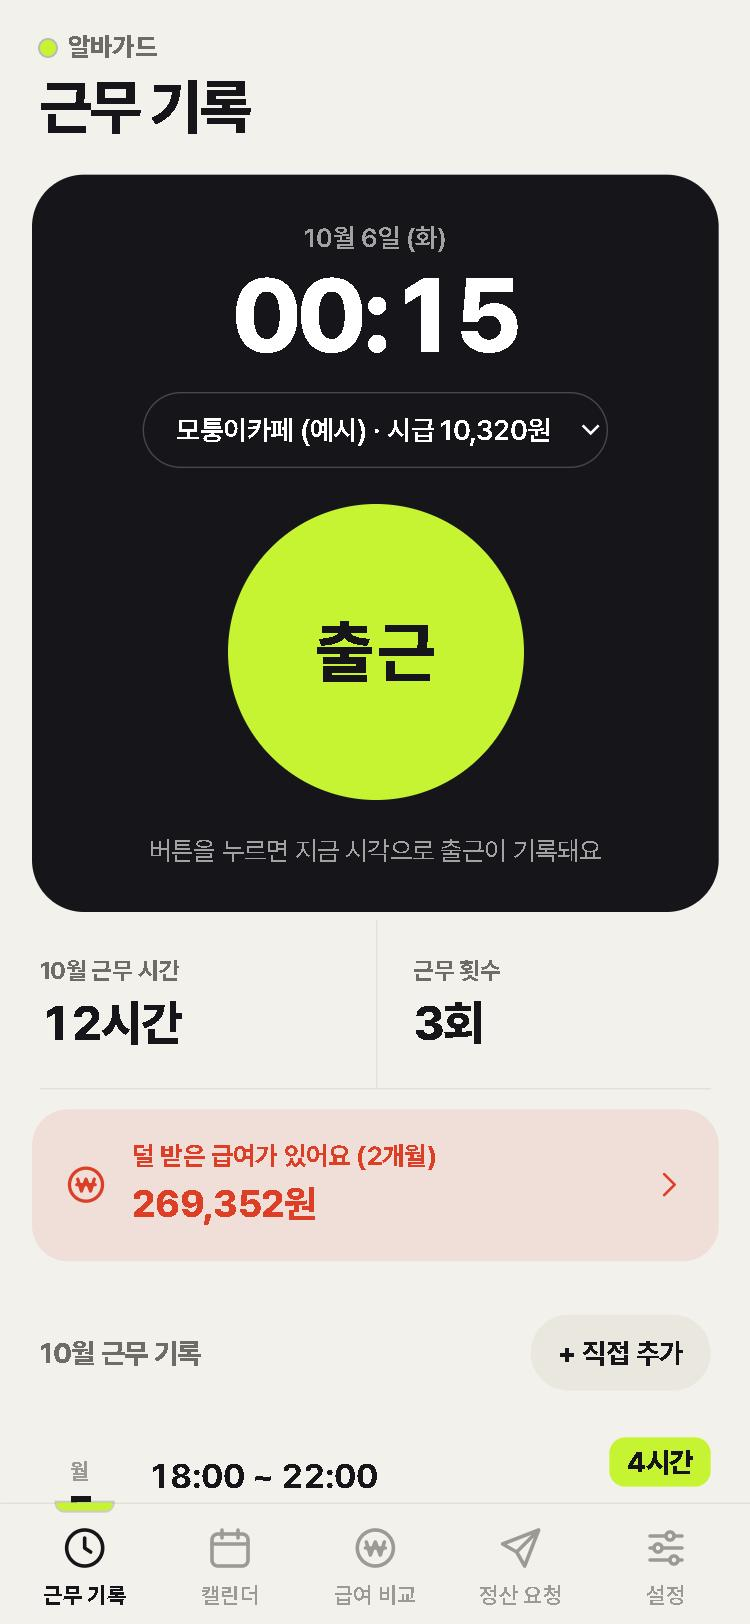
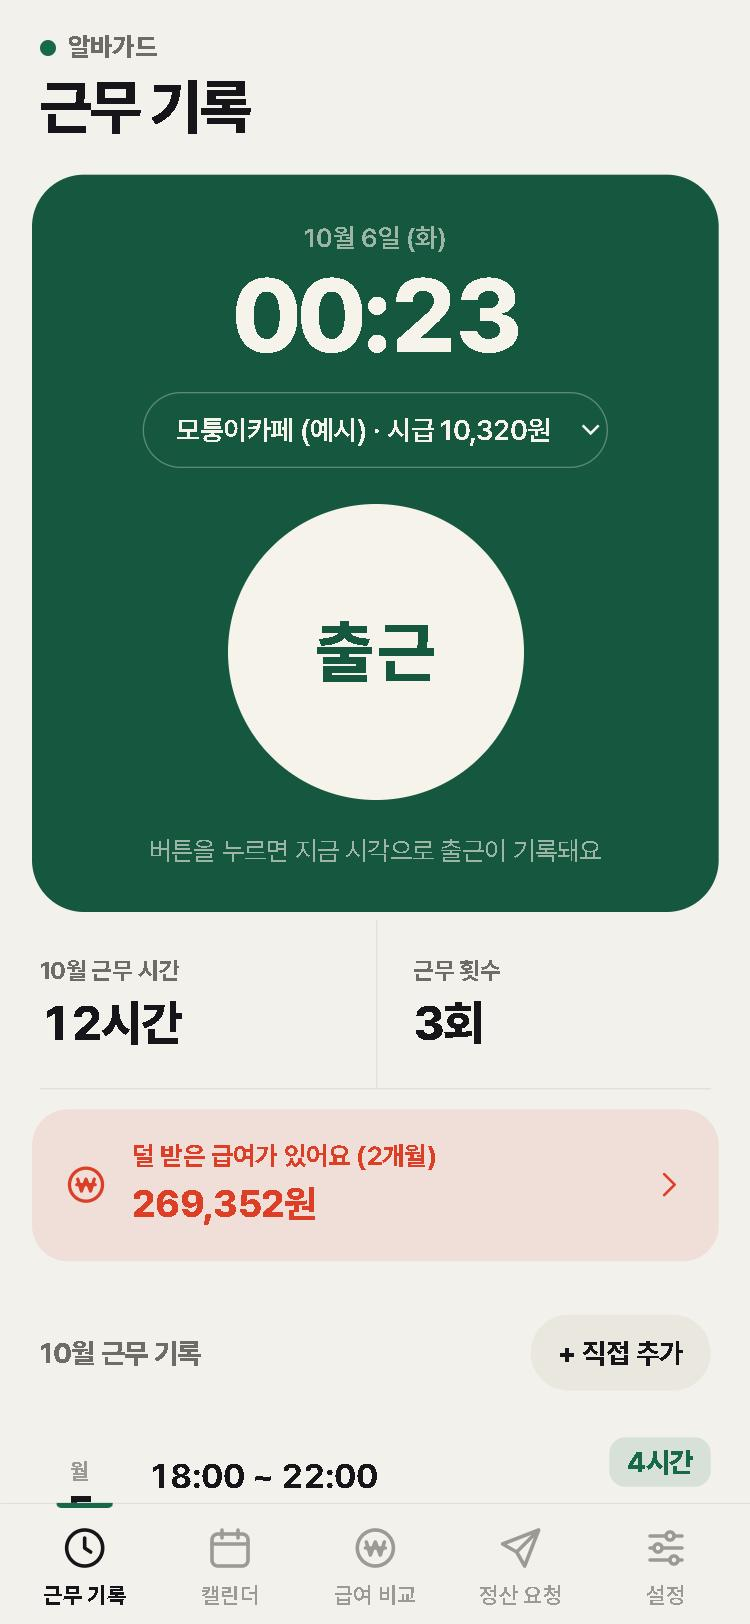
포인트 색을 짙은 초록으로 변경
- 형광 라임 대신 짙은 초록(받을 돈·지켜 준다는 뜻), 출근 판과 주요 버튼에 적용
- 근무 중에는 흰 판 + 초록 테두리
- 앱 아이콘, README 캡처, 문서의 디자인 설명 갱신

diff --git a/src/styles.css b/src/styles.css
@@ -1,6 +1,6 @@
 /*
   알바가드 디자인: 종이 위의 근무 기록표.
-  - 따뜻한 종이색 바탕 + 먹색 글자, 포인트는 형광 라임 한 가지
+  - 따뜻한 종이색 바탕 + 먹색 글자, 포인트는 짙은 초록 한 가지 (받을 돈·지켜 준다는 뜻)
   - 그라데이션·그림자 없이 평평하게. 목록은 카드 대신 줄과 구분선
   - 밝은 화면 / 어두운 화면 모두 아래 변수만 바꿔서 만든다
 */
@@ -13,19 +13,22 @@
   --muted: #6d6c67;
   --faint: #9b9a94;
   --line: #e2dfd6;
-  --primary: #16161a; /* 주요 버튼 바탕 */
+  --primary: #17694a; /* 주요 버튼 바탕 */
   --on-primary: #ffffff;
-  --accent: #c6f432; /* 형광 라임 */
-  --on-accent: #16161a;
-  --hero: #16161a;
-  --on-hero: #ffffff;
+  --accent: #17694a; /* 짙은 초록 */
+  --on-accent: #ffffff;
+  --accent-soft: rgba(23, 105, 74, 0.12);
+  --hero: #15573f; /* 출근 판 */
+  --on-hero: #f6f3ea;
+  --hero-btn: #f6f3ea;
+  --on-hero-btn: #15573f;
   --chip: #eae7df;
   --red: #dc3f26;
   --red-soft: rgba(220, 63, 38, 0.1);
   --orange: #c2610a;
   --orange-soft: rgba(224, 122, 20, 0.14);
-  --green: #12804a;
-  --green-soft: rgba(18, 128, 74, 0.12);
+  --green: #17694a;
+  --green-soft: rgba(23, 105, 74, 0.12);
   --purple: #6b45c9;
   --purple-soft: rgba(107, 69, 201, 0.12);
   --blue: #2c5fd6;
@@ -45,17 +48,22 @@
     --muted: #a09f98;
     --faint: #73726c;
     --line: #2d2d32;
-    --primary: #c6f432;
-    --on-primary: #16161a;
-    --hero: #1c1c20;
-    --on-hero: #f1f0ea;
+    --primary: #45c08a;
+    --on-primary: #0c1f17;
+    --accent: #45c08a;
+    --on-accent: #0c1f17;
+    --accent-soft: rgba(69, 192, 138, 0.16);
+    --hero: #143d2e;
+    --on-hero: #eaf5ef;
+    --hero-btn: #45c08a;
+    --on-hero-btn: #0c1f17;
     --chip: #2b2b30;
     --red: #ff7a63;
     --red-soft: rgba(255, 122, 99, 0.14);
     --orange: #f0a04b;
     --orange-soft: rgba(240, 160, 75, 0.14);
-    --green: #4fd08a;
-    --green-soft: rgba(79, 208, 138, 0.13);
+    --green: #45c08a;
+    --green-soft: rgba(69, 192, 138, 0.14);
     --purple: #a98bf5;
     --purple-soft: rgba(169, 139, 245, 0.15);
     --blue: #7ea6ff;
@@ -73,17 +81,22 @@
   --muted: #a09f98;
   --faint: #73726c;
   --line: #2d2d32;
-  --primary: #c6f432;
-  --on-primary: #16161a;
-  --hero: #1c1c20;
-  --on-hero: #f1f0ea;
+  --primary: #45c08a;
+  --on-primary: #0c1f17;
+  --accent: #45c08a;
+  --on-accent: #0c1f17;
+  --accent-soft: rgba(69, 192, 138, 0.16);
+  --hero: #143d2e;
+  --on-hero: #eaf5ef;
+  --hero-btn: #45c08a;
+  --on-hero-btn: #0c1f17;
   --chip: #2b2b30;
   --red: #ff7a63;
   --red-soft: rgba(255, 122, 99, 0.14);
   --orange: #f0a04b;
   --orange-soft: rgba(240, 160, 75, 0.14);
-  --green: #4fd08a;
-  --green-soft: rgba(79, 208, 138, 0.13);
+  --green: #45c08a;
+  --green-soft: rgba(69, 192, 138, 0.14);
   --purple: #a98bf5;
   --purple-soft: rgba(169, 139, 245, 0.15);
   --blue: #7ea6ff;
@@ -168,7 +181,6 @@ a.btn {
   height: 8px;
   border-radius: 50%;
   background: var(--accent);
-  box-shadow: 0 0 0 1px rgba(22, 22, 26, 0.25);
 }
 
 .app-header h1 {
@@ -304,7 +316,7 @@ a.btn {
   opacity: 0.7;
 }
 
-/* 출퇴근: 먹색 판 위에 라임 버튼. 근무 중에는 판 전체가 라임으로 바뀐다 */
+/* 출퇴근: 초록 판 위에 종이색 버튼. 근무 중에는 흰 판 + 초록 테두리로 바뀐다 */
 .hero {
   margin-bottom: 4px;
   padding: 22px 20px 20px;
@@ -315,8 +327,13 @@ a.btn {
 }
 
 .hero.working {
-  background: var(--accent);
-  color: var(--on-accent);
+  background: var(--surface);
+  color: var(--text);
+  box-shadow: inset 0 0 0 2px var(--accent);
+}
+
+.hero.working .hero-status {
+  color: var(--accent);
 }
 
 .hero-date {
@@ -338,7 +355,7 @@ a.btn {
   min-height: 38px;
   margin-top: 10px;
   padding: 0 12px;
-  border: 1px solid rgba(255, 255, 255, 0.22);
+  border: 1px solid rgba(255, 255, 255, 0.3);
   border-radius: 999px;
   background: transparent;
   color: inherit;
@@ -390,13 +407,13 @@ a.btn {
 }
 
 .clock-btn.in {
-  background: var(--accent);
-  color: var(--on-accent);
+  background: var(--hero-btn);
+  color: var(--on-hero-btn);
 }
 
 .clock-btn.out {
-  background: #16161a;
-  color: #ffffff;
+  background: var(--text);
+  color: var(--bg);
 }
 
 .clock-btn:active {
@@ -555,8 +572,8 @@ a.btn {
 .record-duration {
   padding: 2px 9px;
   border-radius: 8px;
-  background: var(--accent);
-  color: var(--on-accent);
+  background: var(--accent-soft);
+  color: var(--accent);
   font-size: 14px;
   font-weight: 800;
   white-space: nowrap;
@@ -675,7 +692,7 @@ a.btn {
 }
 
 .input:focus {
-  border-color: var(--text);
+  border-color: var(--accent);
 }
 
 .field-help {
@@ -701,7 +718,7 @@ a.btn {
   height: 22px;
   margin-top: 1px;
   flex-shrink: 0;
-  accent-color: var(--text);
+  accent-color: var(--accent);
 }
 
 .notice {
@@ -1483,7 +1500,7 @@ a.btn {
   }
 }
 
-/* 하단 탭: 고른 탭은 글자색과 위쪽 라임 막대로 표시 */
+/* 하단 탭: 고른 탭은 글자색과 위쪽 초록 막대로 표시 */
 .tabbar {
   position: fixed;
   left: 50%;
@@ -1526,10 +1543,9 @@ a.btn {
   top: -1px;
   left: 50%;
   width: 28px;
-  height: 4px;
-  border-radius: 0 0 4px 4px;
+  height: 3px;
+  border-radius: 0 0 3px 3px;
   background: var(--accent);
-  box-shadow: 0 0 0 1px rgba(22, 22, 26, 0.18);
   transform: translateX(-50%);
 }
 

diff --git a/CLAUDE.md b/CLAUDE.md
@@ -12,11 +12,11 @@
 - 기획서의 기능 1~4와, 문서 재검토에서 나온 보완(기록 백업, 증빙 사진, 여러 달 누적 요청, 휴게시간, 시급 변경 이력, 대타·연장 표시, 합의 휴무)까지 구현. GitHub Pages에 배포됨
 - 배포 주소: https://jihooni217.github.io/albaguard/
 - 저장소: https://github.com/jihooni217/albaguard (브랜치 `main`, 올리면 자동 배포)
-- 2026.10.6 디자인 전면 개편(종이색·먹색·라임 포인트, 다크 모드). 아래 "디자인" 참고
-- **포인트 색은 아직 확정이 아니다.** 개편 직후 사용자가 "검정에 연두가 앱 취지와 어울리나?"라고 물었다. 형광 라임은 운동·패션 앱 느낌이라 "기록으로 정중하게 요청한다"는 취지와는 거리가 있다는 의견을 전했고, 대안(짙은 초록, 인주색 도장, 형광펜 노랑)을 제안한 상태. 답을 받으면 `src/styles.css` 맨 위 변수와 앱 아이콘, README 캡처를 함께 바꾼다
+- 2026.10.6 디자인 전면 개편(종이색·먹색·짙은 초록 포인트, 다크 모드). 아래 "디자인" 참고
+- 포인트 색은 짙은 초록으로 확정(2026.10.6). 처음엔 형광 라임이었으나 사용자가 "검정에 연두가 앱 취지와 어울리나?"라고 물었고, 운동·패션 앱 느낌이라 "기록으로 정중하게 요청한다"는 취지와 맞지 않아 바꿨다
 - **주로 폰에서 쓴다.** 폰 브라우저에서 "홈 화면에 추가"로 설치해 앱처럼 쓰는 방식
 - **API 키 없이 모든 기능이 돌아간다** (정산 요청 문구는 기본 문구로 생성)
-- 아직 확인하지 못한 것: 실제 폰에서의 설치·오프라인 실행·PDF 저장·백업 파일 저장·사진 찍어 첨부, Claude API로 문구 생성(키가 없어서 실행해 본 적 없음). 새 디자인에서는 근무 중 화면, 입력 창, 증빙 묶음, 그리고 캘린더·정산 요청·설정의 어두운 화면을 직접 보지 못함
+- 아직 확인하지 못한 것: 실제 폰에서의 설치·오프라인 실행·PDF 저장·백업 파일 저장·사진 찍어 첨부, Claude API로 문구 생성(키가 없어서 실행해 본 적 없음). 새 디자인에서는 입력 창, 증빙 묶음, 그리고 캘린더·급여 비교·정산 요청·설정의 어두운 화면을 직접 보지 못함
 - 문서(정의서·제안서)에 있지만 아직 없는 것: 입금 문자·급여명세서 사진에서 금액 자동 인식 (키 없이 폰 안에서 하기 어려워 보류. 발표에서는 향후 계획으로)
 - 문서와 다른 점: 정의서는 "요청 문서를 자동 생성"이라고 했는데 앱은 AI 없이 정해진 문구를 쓴다. 정의서 팀원 명단은 4명으로 적혀 있으나 실제는 3명
 
@@ -119,19 +119,19 @@
 그래서 파란 그라데이션 + 둥근 흰 카드 + 그림자 구성을 버리고 아래 방향으로 다시 만들었다. **이전 스타일로 돌아가지 말 것.**
 
 - 콘셉트: 종이 위의 근무 기록표. 따뜻한 종이색 바탕(`#f3f1ec`) + 먹색 글자(`#16161a`)
-- 포인트 색은 형광 라임(`#c6f432`) 한 가지(재검토 중, 위 "현재 상태" 참고). 출근 버튼, 근무 시간 칩, 단계 표시, 선택한 탭 막대에만 아껴 쓴다. 파란색은 쓰지 않는다
+- 포인트 색은 짙은 초록(`#17694a`, 어두운 화면에서는 `#45c08a`) 한 가지. 받을 돈·지켜 준다(가드)는 뜻이고, 앱에서 좋은 상태(주휴수당 대상, 예정대로 근무)를 초록으로, 덜 받은 금액을 빨강으로 쓰는 것과 이어진다. 주요 버튼, 출근 판, 근무 시간 칩, 단계 표시, 선택한 탭 막대에 쓴다. 형광색·파란색은 쓰지 않는다
 - 그라데이션·그림자 없음. 평평한 면과 구분선으로만 구분한다
 - 카드를 줄인다: 목록(근무 기록, 주별 주휴수당, 이번 달 요약)은 카드 대신 줄 + 구분선. 카드는 입력·요약처럼 묶음이 필요한 곳에만
 - 한 화면에 다 펼치지 않는다: 정산 요청은 1단계만 펼치고 2·3단계는 접어 둔다(`Fold`). 급여 비교의 주별 주휴수당도 접어 둔다
 - 맨 위: 작은 "● 알바가드" 상표 + 큰 화면 제목(탭 이름). 로고 타일은 없다
 - 구역 제목은 작고 흐리게(14px). 숫자(금액·시각)는 크고 굵게
-- 근무 기록 화면: 먹색 판에 현재 시각(52px)과 라임색 원형 출근 버튼. 근무 중에는 판 전체가 라임색 + 검은 퇴근 버튼
-- 주요 버튼: 밝은 화면에서는 먹색 바탕 흰 글자, 어두운 화면에서는 라임 바탕 검은 글자
-- 하단 탭: 선택한 탭은 글자색 + 위쪽 라임 막대
+- 근무 기록 화면: 짙은 초록 판에 현재 시각(52px)과 종이색 원형 출근 버튼. 근무 중에는 흰 판 + 초록 테두리 + 검은 퇴근 버튼(어두운 화면에서는 밝은 퇴근 버튼)
+- 주요 버튼: 밝은 화면에서는 짙은 초록 바탕 흰 글자, 어두운 화면에서는 밝은 초록 바탕 어두운 글자
+- 하단 탭: 선택한 탭은 글자색 + 위쪽 초록 막대
 - **다크 모드**: 폰이 다크 모드면 자동으로 어둡게. 설정 탭 "화면"에서 폰 설정대로·밝게·어둡게를 고를 수 있다(`src/lib/theme.js`, 이 폰에만 저장). 증빙 묶음 문서는 어두운 화면에서도 흰 종이로 둔다
 - 색은 전부 `src/styles.css` 맨 위 변수로 관리하고, 밝은 화면·어두운 화면 값이 따로 있다. **색을 직접 쓰지 말고 변수를 쓴다** (어두운 화면이 깨진다). 어두운 화면 값은 두 군데(폰 설정용, 수동 선택용)에 똑같이 있으니 같이 고친다
 - 앱처럼 느껴지게: 버튼 글자 선택 안 됨, 누르면 살짝 줄어듦, 화면 끝에서 통째로 당겨지지 않음, 입력 창은 아래에서 올라옴(`Modal.jsx`), 아이폰 위아래 여백 처리
-- 아이콘은 선 아이콘(`src/components/Icon.jsx`)으로 통일. 앱 아이콘(`public/icon-*.png`)은 먹색 바탕에 라임 "알바"
+- 아이콘은 선 아이콘(`src/components/Icon.jsx`)으로 통일. 앱 아이콘(`public/icon-*.png`)은 짙은 초록 바탕에 종이색 "알바"
 - 글꼴: Pretendard (인터넷에서 불러옴. 오프라인이면 폰 기본 글꼴)
 - 주소 끝의 `#탭이름`(`#home`, `#calendar`, `#pay`, `#request`, `#workplaces`)으로 그 탭이 바로 열린다. 탭을 바꾸면 주소에도 남아 새로고침해도 같은 탭이 유지된다
 - Claude Design(claude.ai/design)은 이 작업 환경에서 직접 쓸 수 없음. 거기서 만든 시안은 캡처를 받아 코드로 옮긴다

diff --git a/README.md b/README.md
@@ -14,7 +14,7 @@
 
 ## 화면 구성
 
-폰 세로 화면에 맞춘 디자인이다. 종이색 바탕에 먹색 글자, 포인트는 형광 라임 한 가지만 쓴다. 그라데이션과 그림자 없이 평평하게,
+폰 세로 화면에 맞춘 디자인이다. 종이색 바탕에 먹색 글자, 포인트는 짙은 초록 한 가지만 쓴다(받을 돈, 지켜 준다는 뜻). 그라데이션과 그림자 없이 평평하게,
 목록은 카드 대신 줄과 구분선으로 보여준다. 화면 아래 탭 5개로 이동하고, 어두운 화면(다크 모드)도 지원한다.
 
 <p>
@@ -31,13 +31,13 @@
 
 | 탭 | 화면 |
 |---|---|
-| 근무 기록 | 먹색 판 위에 현재 시각과 라임색 원형 출근 버튼, 이번 달 근무 시간, 덜 받은 급여 알림, 날짜별 기록 목록 |
+| 근무 기록 | 초록 판 위에 현재 시각과 종이색 원형 출근 버튼, 이번 달 근무 시간, 덜 받은 급여 알림, 날짜별 기록 목록 |
 | 캘린더 | 월 달력에 날짜마다 완료·연장·대타·휴무 표시, 날짜를 누르면 예정 스케줄과 실제 근무 비교 |
 | 급여 비교 | 달별 예상 급여와 항목, 받은 금액 입력과 차액, 주별 주휴수당(접어 둠), 증빙 사진 |
 | 정산 요청 | 덜 받은 금액과 근거, 1~3단계 요청 문구와 진정 안내 (1단계만 펼쳐 두고 나머지는 눌러서 펼침) |
 | 설정 | 근무지 등록·수정, 화면 밝기(폰 설정대로·밝게·어둡게), 기록 백업, 시연 도구 |
 
-근무 중에는 출근 판 전체가 라임색으로 바뀌고 검은 퇴근 버튼과 출근 시각이 보인다.
+근무 중에는 출근 판이 흰 바탕에 초록 테두리로 바뀌고 검은 퇴근 버튼과 출근 시각이 보인다.
 입력 창은 화면 아래에서 올라오고, 버튼은 엄지로 누르기 좋게 크게 만들었다.
 
 ## 기능
